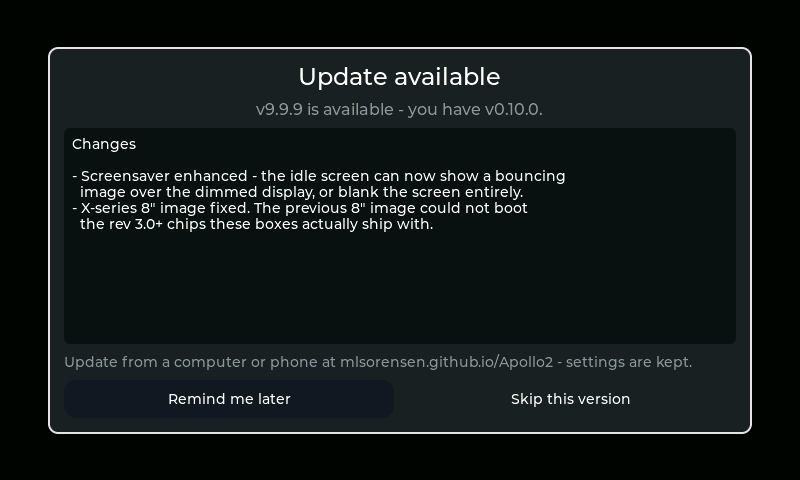
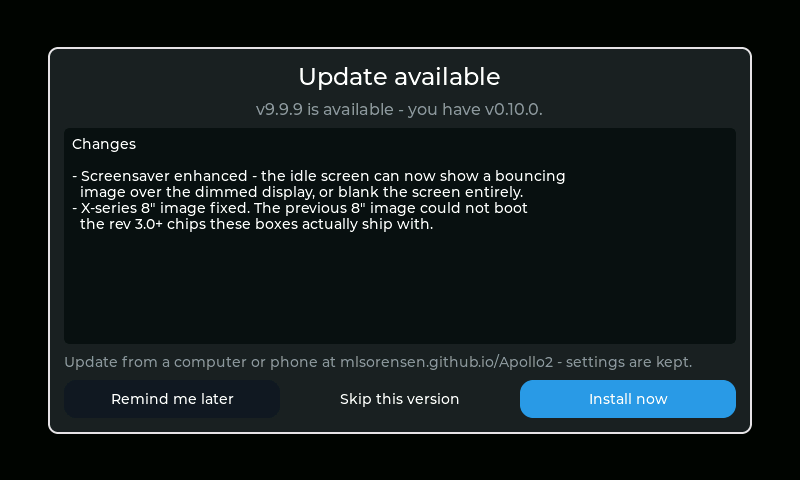
docs: on-device OTA install + Off/On-boot/Daily cadence + C6 auto-update
- CHANGELOG: rewrite the update entry for on-device Install now (download +
  dark-screen install + rollback), the Off/On boot/Daily cadence, and the
  one-time C6 Wi-Fi co-processor update.
- MANUAL: WiFi "Check for updates" section now covers the cadence cycle and the
  install flow (progress -> ~20s dark write -> restart, settings kept, auto
  rollback); nav map updated; drop the web-flasher-only wording.
- CLAUDE.md: rewrite the OTA section for the check port + early-boot install
  mode (why the full display can't coexist with a download), the C6 updater,
  and the dltest proving ground.
- Regenerated docs/img: update-modal (now has Install now), device-wifi (cadence
  cycle button), stats-info.

Changed region(s): [[0.625, 0.7812, 0.9375, 0.875], [0.125, 0.8125, 0.375, 0.8438], [0.4062, 0.8125, 0.5938, 0.8438]]

diff --git a/CLAUDE.md b/CLAUDE.md
@@ -24,24 +24,45 @@ accurate and the layering rules there are hard rules:
 
 ## OTA self-update (v0.11+)
 
-- Artifact contract: the device fetches
-  `<site>/<tag>/firmware/app/<kUpdateSlug><variant>.bin` (app-only image;
-  published by the pages job with a .sha256 sidecar for humans). The parts/
-  files are NOT usable for OTA — they bundle otadata with the app. CI asserts
-  kUpdateSlug (board_config.h) == the matrix `board` field per env.
-  `<variant>` is "" today; becomes "-rev3" per-silicon when dual-rev P4
-  images ever ship (update_variant_suffix() in update_check.cpp).
-- Trust: esp_http_client/esp_https_ota with `crt_bundle_attach` — the cert
-  bundle embedded in the core libs. The Arduino NetworkClientSecure wrapper
-  CANNOT reach that built-in bundle (its setCACertBundle requires a
-  caller-supplied blob); use the IDF client for anything HTTPS.
-- Rollback: BOOTLOADER_APP_ROLLBACK_ENABLE=y in all cores. main.cpp
-  overrides `verifyRollbackLater()` -> true and marks the image valid after
-  60 s of healthy loop() — an OTA image that bootloops is auto-reverted.
-  Consequence: bootloader/partition-table changes CANNOT ship via OTA (app
-  slot only); such releases need the web flasher, called out in their notes.
-- Interlocks: no check or install starts mid-shot; BLE (both links) is
-  pause_connects()-parked during an install and resumed on failure/cancel.
+Two separate parts: a CHECK/notify port (`update_check.*`) and an INSTALL that
+runs in a dedicated early-boot mode (`install_mode.*`). Full rationale +
+measurements: the `ota-p4-solution` memory. The short version of WHY install is
+its own boot mode: a bulk download over the hosted-radio SDIO link needs a
+~64 KB CONTIGUOUS internal-DMA buffer, and Apollo's graph-optimized DSI display
+(use_dma2d + async double-buffer) fragments that pool to ~16 KB → the download
+asserts `sdio_rx_get_buffer`; and flash writes disable the cache, stalling the
+DSI's PSRAM framebuffer scan → the panel strobes. Both go away when the full
+display isn't up.
+
+- Artifact contract: `<site>/<tag>/firmware/app/<kUpdateSlug>.bin` (app-only
+  image). The parts/ files are NOT usable for OTA — they bundle otadata with
+  the app. CI asserts kUpdateSlug (board_config.h) == the matrix `board` field.
+- Check (update_check.cpp): a short-lived task fetches releases.json + notes.txt
+  via esp_http_client + `crt_bundle_attach` (the cert bundle in the core libs;
+  the Arduino NetworkClientSecure wrapper CANNOT reach it). mbedTLS is pointed
+  at PSRAM (use_psram_for_tls) so the small fetch runs with BLE up. Cadence Off/
+  On boot/Daily (Config::update_check_mode). Notify only — never installs.
+- Install (install_mode.cpp): "Install now" stashes the version in NVS
+  (Config::pending_install) and reboots. VERY EARLY in setup() — before the full
+  display / BLE / app — main runs install_mode::run(): a LIGHTWEIGHT display
+  (display.cpp `install_panel_*`: same per-board DSI init but num_fbs=2, no
+  use_dma2d, no async sync) shows a progress UI, downloads the whole image into
+  PSRAM (no flash writes → clean), then blanks the backlight and writes
+  PSRAM→flash (screen glitches during flash writes regardless) and reboots.
+  DSI boards only (no-op on S3, which don't hit the DMA/hosted-radio problem).
+  Clock only needed for the cert dates: install mode inherits the RTC and only
+  NTP-syncs as a failsafe.
+- Rollback: BOOTLOADER_APP_ROLLBACK_ENABLE=y in all cores. main.cpp overrides
+  `verifyRollbackLater()` -> true and marks the image valid after 60 s of
+  healthy loop() — an image that bootloops is auto-reverted. Consequence:
+  bootloader/partition-table changes CANNOT ship via OTA (app slot only).
+- C6 auto-update (c6_update.cpp): on every P4 boot, if the on-board ESP32-C6
+  esp-hosted slave is older than the host lib, flash the embedded matching image
+  (`firmware_blobs/c6_slave.bin`, committed, embedded on all P4 envs) to the C6
+  over SDIO and reboot. Fixes the stale-factory-slave boot-WiFi delay. Bump the
+  blob when the pinned platform's esp-hosted host version changes.
+- Proving ground: the `esp32-p4-dltest` env (src/dltest/) is the standalone
+  firmware the install mode was developed + verified in; keep it.
 
 ## Git conventions
 

diff --git a/MANUAL.md b/MANUAL.md
@@ -57,7 +57,8 @@ Settings
 │  │               · Theme · Fahrenheit · Button sounds* · Performance overlay
 │  ├─ Time & date — Time · Date · 24-hour · Timezone
 │  └─ WiFi        — Enable · Status · Set up WiFi → QR portal · Forget
-│                  · Auto time (NTP) · Check for updates on boot → notice
+│                  · Auto time (NTP) · Check for updates (Off/Boot/Daily)
+│                    → notice → Install now
 ├─ Restart display
 └─ Lock display for cleaning  → 30 s touch lock
 
@@ -453,22 +454,28 @@ page fits on screen with little to no scrolling.
 - ③ **Forget** — clears the saved network.
 - ④ **Auto time (NTP)** *(default on)* — sync the clock over WiFi while
   connected. (The timezone it applies is set under **Time & date**.)
-- ⑤ **Check for updates on boot** *(default on)* — at startup (and only after
-  an NTP sync has proven the internet reachable), the device checks the
-  releases site for a newer firmware. When one exists, a dismissable notice
-  shows the version and its release notes:
+- ⑤ **Check for updates** *(default On boot)* — tap to cycle **Off / On boot /
+  Daily**. "On boot" checks once at startup; "Daily" also re-checks about once
+  a day while the machine stays on. Checks only run after an NTP sync has proven
+  the internet is reachable. When a newer firmware exists, a notice shows the
+  version and its release notes:
 
   <img src="docs/img/manual/update-modal.png" width="70%" alt="Update-available notice">
 
-  **Later** closes it and reminds again on the next check; **Skip this
+  **Install now** installs it right on the device (see below); **Remind me
+  later** closes the notice and offers again on the next check; **Skip this
   version** never offers that version again (the next release will). You can
-  also check any time — even with the boot check off — from **Stats → Info →
-  Check for updates**.
+  also check any time from **Stats → Info → Check for updates** — and if it
+  can't reach the server it says "Couldn't check" rather than "up to date".
 
-  Updating itself is a quick reflash from a phone or computer at the
-  [web flasher](https://mlsorensen.github.io/Apollo2/): plug in over USB, pick
-  the board, flash. Your settings, the paired machine, and shot history live in
-  a separate memory and are kept across the reflash.
+  **Installing** — after **Install now**, Apollo restarts into a minimal update
+  screen: a progress bar while it downloads the new firmware, then a short
+  **"screen goes dark for about 20 seconds — don't power off"** phase while it
+  writes, then it restarts on the new version. Your settings, the paired
+  machine, and shot history are kept, and a firmware that fails to boot rolls
+  back to the old one automatically. The
+  [web flasher](https://mlsorensen.github.io/Apollo2/) remains the fallback for
+  recovery and for a board's very first flash.
 
 ### Root page
 

diff --git a/CHANGELOG.md b/CHANGELOG.md
@@ -9,15 +9,24 @@ for someone reading the diff.
 
 ### Changes
 
-- **The device tells you when a firmware update is out.** With WiFi + NTP on,
-  it checks the releases site at startup and shows a dismissable notice with
-  the new version and its release notes when there's something newer —
-  **Later** (remind me next time) or **Skip this version**. You can also check
-  any time from **Settings → Stats → Info → Check for updates**. Turn the boot
-  check off with **Check for updates on boot** on the WiFi page. Updating
-  itself is a two-minute reflash from a phone or computer at the
-  [web flasher](https://mlsorensen.github.io/Apollo2/) — your settings, paired
-  machine and shot history are kept.
+- **Apollo can update itself, right on the device.** With WiFi on, it checks
+  the releases site and shows a notice when a newer firmware is out — with the
+  version and release notes, and **Install now / Remind me later / Skip this
+  version**. Install now downloads the new firmware and installs it: a progress
+  bar, then a short "screen goes dark ~20 seconds, don't power off" phase, then
+  it restarts on the new version. Your settings, paired machine and shot
+  history are kept, and a firmware that won't boot rolls back on its own. The
+  [web flasher](https://mlsorensen.github.io/Apollo2/) is still there for
+  recovery and for the P4 boards' first flash.
+- **Choose how it checks: Off / On boot / Daily.** Under **Settings → Apollo →
+  WiFi → Check for updates**. "On boot" checks once each startup; "Daily" also
+  re-checks about once a day while the machine stays on. You can always check
+  by hand from **Stats → Info → Check for updates**; if it can't reach the
+  server it says so instead of claiming you're up to date.
+- **Faster, more reliable Wi-Fi on the P4 boards.** On first boot Apollo
+  updates the board's Wi-Fi co-processor to the matching firmware (a brief
+  one-time "Updating Wi-Fi co-processor" screen), which fixes a stale-factory
+  quirk that slowed every connection. One-time and automatic.
 - **Settings → Device is now Settings → Apollo** — "Device" was ambiguous
   next to the machine and the scale; the page is about this device, Apollo.
 
